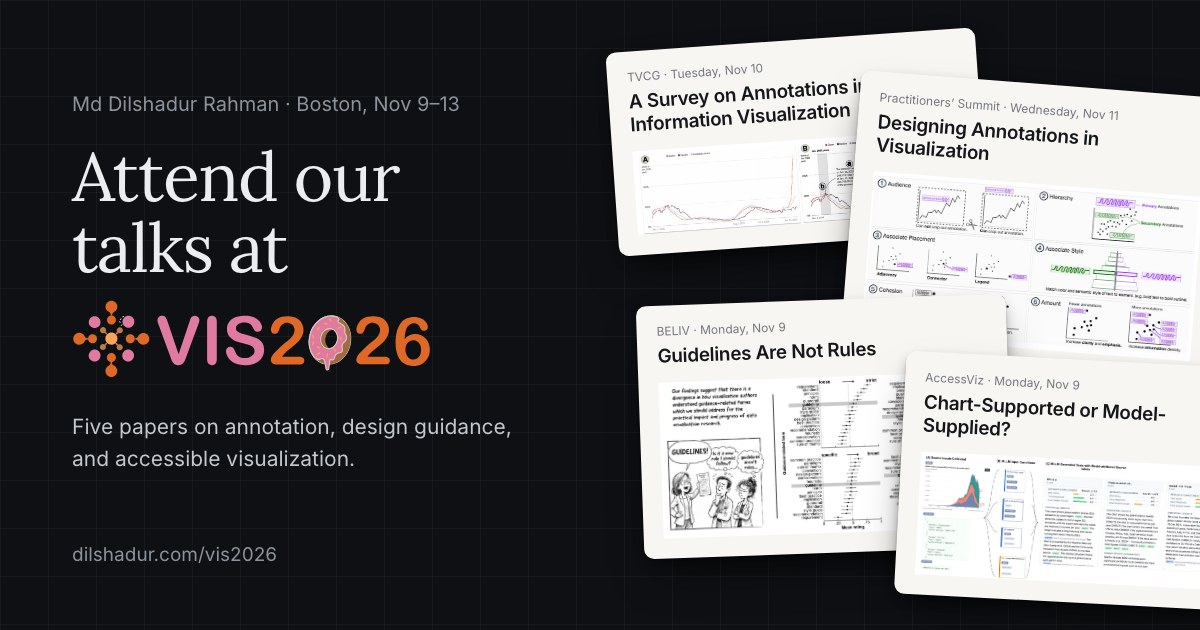
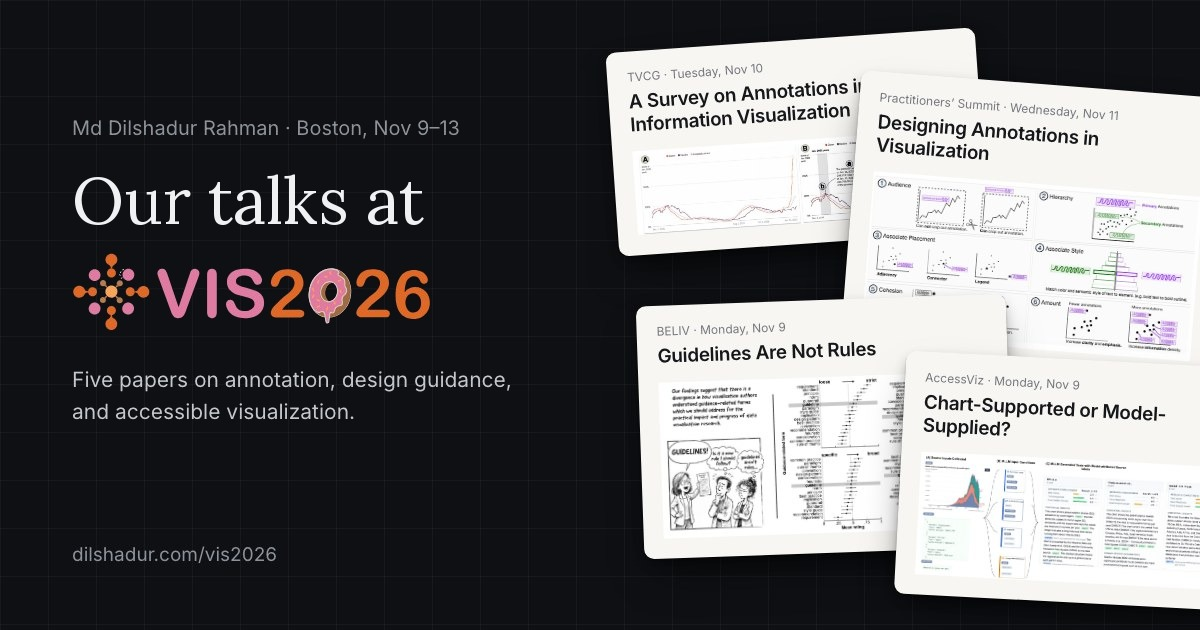
After IEEE VIS 2026: 'Our talks at IEEE VIS 2026' card, past-tense news, VIS page as a record

Changed region(s): [[0.0617, 0.2413, 0.4317, 0.6937], [0.0617, 0.1508, 0.4008, 0.2111], [0.0617, 0.7238, 0.3083, 0.754]]

diff --git a/vis2026.html b/vis2026.html
@@ -4,25 +4,25 @@
 <head>
   <meta charset="UTF-8" />
   <meta name="viewport" content="width=device-width, initial-scale=1.0" />
-  <title>Attend our talks at IEEE VIS 2026 · Md Dilshadur Rahman</title>
+  <title>Our talks at IEEE VIS 2026 · Md Dilshadur Rahman</title>
   <meta name="description"
-    content="Times, rooms, and summaries for five presentations at IEEE VIS 2026 by Md Dilshadur Rahman and collaborators." />
+    content="Sessions and summaries for five presentations at IEEE VIS 2026 by Md Dilshadur Rahman and collaborators." />
   <meta name="theme-color" id="theme-color-meta" content="#0E1013" />
   <link rel="canonical" href="https://dilshadur.com/vis2026.html" />
   <link rel="icon" href="favicon.svg" type="image/svg+xml" />
 
   <meta property="og:type" content="website" />
-  <meta property="og:title" content="Attend our talks at IEEE VIS 2026" />
+  <meta property="og:title" content="Our talks at IEEE VIS 2026" />
   <meta property="og:description"
-    content="Five presentations on annotation, design guidance, and accessible visualization, with times and rooms." />
+    content="Five presentations on annotation, design guidance, and accessible visualization." />
   <meta property="og:url" content="https://dilshadur.com/vis2026.html" />
-  <meta property="og:image" content="https://dilshadur.com/vis2026/social-preview.jpg" />
+  <meta property="og:image" content="https://dilshadur.com/vis2026/social-preview.jpg?v=2" />
   <meta property="og:image:width" content="1200" />
   <meta property="og:image:height" content="630" />
-  <meta property="og:image:alt" content="Attend our talks at IEEE VIS 2026: five paper cards on a desk." />
+  <meta property="og:image:alt" content="Our talks at IEEE VIS 2026: five paper cards on a desk." />
   <meta name="twitter:card" content="summary_large_image" />
-  <meta name="twitter:title" content="Attend our talks at IEEE VIS 2026" />
-  <meta name="twitter:image" content="https://dilshadur.com/vis2026/social-preview.jpg" />
+  <meta name="twitter:title" content="Our talks at IEEE VIS 2026" />
+  <meta name="twitter:image" content="https://dilshadur.com/vis2026/social-preview.jpg?v=2" />
 
   <link rel="preconnect" href="https://fonts.googleapis.com" />
   <link rel="preconnect" href="https://fonts.gstatic.com" crossorigin />
@@ -1853,16 +1853,16 @@
       <section class="intro" aria-labelledby="page-title">
         <div>
           <p class="kicker">Boston · November 9–13, 2026</p>
-          <h1 id="page-title">Attend <em>our</em> talks at
+          <h1 id="page-title">Our <em>talks</em> at
             <a class="vis-logo" href="https://ieeevis.org/year/2026/welcome/" target="_blank" rel="noopener"
               aria-label="IEEE VIS 2026 (opens the conference website)" title="IEEE VIS 2026 conference website">
               <img class="logo-light" src="vis2026/vis2026-logo.svg" alt="" width="498" height="114" />
               <img class="logo-dark" src="vis2026/vis2026-logo-dark.svg" alt="" width="498" height="114" />
             </a></h1>
         </div>
-        <p class="intro-text">We will be presenting our research on annotation,
-          visualization design guidance, and accessible visualization. Below you’ll find what each paper is
-          about, along with its session, time, and room. We hope to see you there!</p>
+        <p class="intro-text">We presented our research on annotation, visualization design guidance, and
+          accessible visualization at IEEE VIS 2026 in Boston. Below you’ll find what each paper is about,
+          along with the session where it was presented.</p>
       </section>
     </div>
 
@@ -1944,7 +1944,6 @@
               <p class="time">08:30–09:45</p>
               <p class="slot-note">Research talks</p>
               <p class="room">Hall St. George C–D</p>
-              <button class="cal u" type="button" data-cal="mllm">Add to calendar</button>
             </div>
             <div>
               <p class="session"><a class="u quiet"
@@ -1978,7 +1977,6 @@
               <p class="time">08:30–09:45</p>
               <p class="slot-note">Research talks</p>
               <p class="room">Hall St. George C–D</p>
-              <button class="cal u" type="button" data-cal="wastewater">Add to calendar</button>
             </div>
             <div>
               <p class="session"><a class="u quiet"
@@ -2010,7 +2008,6 @@
               <p class="time">15:00–15:15</p>
               <p class="slot-note">Session 13:00–16:30</p>
               <p class="room">Hall America North</p>
-              <button class="cal u" type="button" data-cal="guidelines">Add to calendar</button>
             </div>
             <div>
               <p class="session"><a class="u quiet" href="https://ieeevis.org/year/2026/program/session/w-beliv-beliv-2"
@@ -2049,7 +2046,6 @@
               <p class="time">13:24–13:36</p>
               <p class="slot-note">Session 13:00–14:30</p>
               <p class="room">Hall Essex North</p>
-              <button class="cal u" type="button" data-cal="survey">Add to calendar</button>
             </div>
             <div>
               <p class="session"><a class="u quiet" href="https://ieeevis.org/year/2026/program/session/v-full-full7"
@@ -2089,7 +2085,6 @@
               <p class="time">10:30–11:30</p>
               <p class="slot-note">Lightning talks · Session 10:00–11:30</p>
               <p class="room">Hall Essex South</p>
-              <button class="cal u" type="button" data-cal="design">Add to calendar</button>
             </div>
             <div>
               <p class="session"><a class="u quiet"
@@ -2125,7 +2120,7 @@
     <div class="wrap">
       <section class="closing" aria-label="Contact">
         <div class="spacer"></div>
-        <p>If you’re at VIS and would like to talk about any of this work, I’d be glad to meet.
+        <p>If you’d like to talk about any of this work, I’d be glad to hear from you.
           <a class="u" href="./#contact">Get in touch</a>.</p>
       </section>
     </div>
@@ -2462,37 +2457,6 @@
       window.addEventListener('scroll', updateBtt, { passive: true });
       window.addEventListener('resize', updateBtt);
       updateBtt();
-
-      /* Calendar files --------------------------------------------------- */
-      const events = {
-        wastewater: ['A Case Study in Accessible Redesign of a Wastewater Dashboard (AccessViz)', '20261109T133000Z', '20261109T144500Z', 'Hall St. George C-D', 'wastewater'],
-        mllm: ['Chart-Supported or Model-Supplied? (AccessViz)', '20261109T133000Z', '20261109T144500Z', 'Hall St. George C-D', 'mllm-claims'],
-        guidelines: ['Guidelines Are Not Rules (BELIV)', '20261109T200000Z', '20261109T201500Z', 'Hall America North', 'guidelines'],
-        survey: ['A Survey on Annotations in Information Visualization (TVCG)', '20261110T182400Z', '20261110T183600Z', 'Hall Essex North', 'annotation-survey'],
-        design: ['Designing Annotations in Visualization (Cluster: The Practitioners\' Summit)', '20261111T153000Z', '20261111T163000Z', 'Hall Essex South', 'annotation-design'],
-      };
-      document.querySelectorAll('[data-cal]').forEach(btn => {
-        btn.addEventListener('click', () => {
-          const [title, start, end, room, id] = events[btn.dataset.cal];
-          const ics = [
-            'BEGIN:VCALENDAR', 'VERSION:2.0', 'PRODID:-//dilshadur.com//VIS 2026//EN',
-            'BEGIN:VEVENT',
-            `UID:${id}-vis2026@dilshadur.com`,
-            'DTSTAMP:20261012T000000Z',
-            `DTSTART:${start}`, `DTEND:${end}`,
-            `SUMMARY:${title}`,
-            `LOCATION:${room}, IEEE VIS 2026`,
-            `URL:https://dilshadur.com/vis2026.html#${id}`,
-            'END:VEVENT', 'END:VCALENDAR',
-          ].join('\r\n');
-          const a = document.createElement('a');
-          a.href = URL.createObjectURL(new Blob([ics], { type: 'text/calendar' }));
-          a.download = `vis2026-${id}.ics`;
-          document.body.appendChild(a);
-          a.click();
-          setTimeout(() => { URL.revokeObjectURL(a.href); a.remove(); }, 0);
-        });
-      });
     })();
   </script>
 </body>

diff --git a/index.html b/index.html
@@ -4180,7 +4180,7 @@
           Postdoctoral Research Fellow @ <a class="harvard-brand-link" href="https://www.harvard.edu/" target="_blank"
             rel="noopener noreferrer">Harvard University</a>
         </p>
-        <a class="hero-event" href="vis2026.html" aria-label="Attend our talks at IEEE VIS 2026 in Boston, November 9 to 13">
+        <a class="hero-event" href="vis2026.html" aria-label="Our talks at IEEE VIS 2026 in Boston, November 9 to 13">
           <span class="hero-event-papers" aria-hidden="true">
             <img src="vis2026/annotation-design.jpg" alt="" width="1564" height="782" />
             <img src="vis2026/guidelines.jpg" alt="" width="1347" height="637" />
@@ -4194,7 +4194,7 @@
               <span>Boston · Nov 9–13</span>
             </span>
             <span class="hero-event-title">
-              <span class="hero-event-what">Attend our talks</span>
+              <span class="hero-event-what">Our talks at IEEE VIS 2026</span>
               <span class="hero-event-soon" id="vis-soon">Coming up</span>
             </span>
           </span>
@@ -4250,9 +4250,9 @@
           <div class="hero-updates-wrap" id="updates" role="region" aria-labelledby="updates-heading">
             <h2 id="updates-heading" class="hero-updates-label">Recent Updates</h2>
             <ul class="hero-updates-list" role="list" tabindex="0" aria-label="Recent updates, scrollable">
-              <li class="update-item"><span class="update-date">Oct 2026</span><span class="update-text">Five papers and talks at IEEE VIS 2026 in Boston.
-                <a href="vis2026.html"><strong>Attend our talks</strong></a>: sessions, times, and rooms.</span></li>
-              <li class="update-item"><span class="update-date">Oct 2026</span><span class="update-text">I'll give a talk on annotation design at <a
+              <li class="update-item"><span class="update-date">Nov 2026</span><span class="update-text">Five of our papers were presented at IEEE VIS 2026 in Boston.
+                <a href="vis2026.html"><strong>Our talks at IEEE VIS 2026</strong></a>: papers, sessions, and summaries.</span></li>
+              <li class="update-item"><span class="update-date">Nov 2026</span><span class="update-text">Gave a talk on annotation design at <a
                 href="https://cluster-practitioners-summit.github.io/" target="_blank" rel="noopener noreferrer"><strong>Cluster: The Practitioner's Summit</strong></a>
                 at IEEE VIS 2026.</span></li>
               <li class="update-item"><span class="update-date">Oct 2026</span><span class="update-text">Gave an invited lecture on <em>"Annotations in Visualizations"</em> at <a
